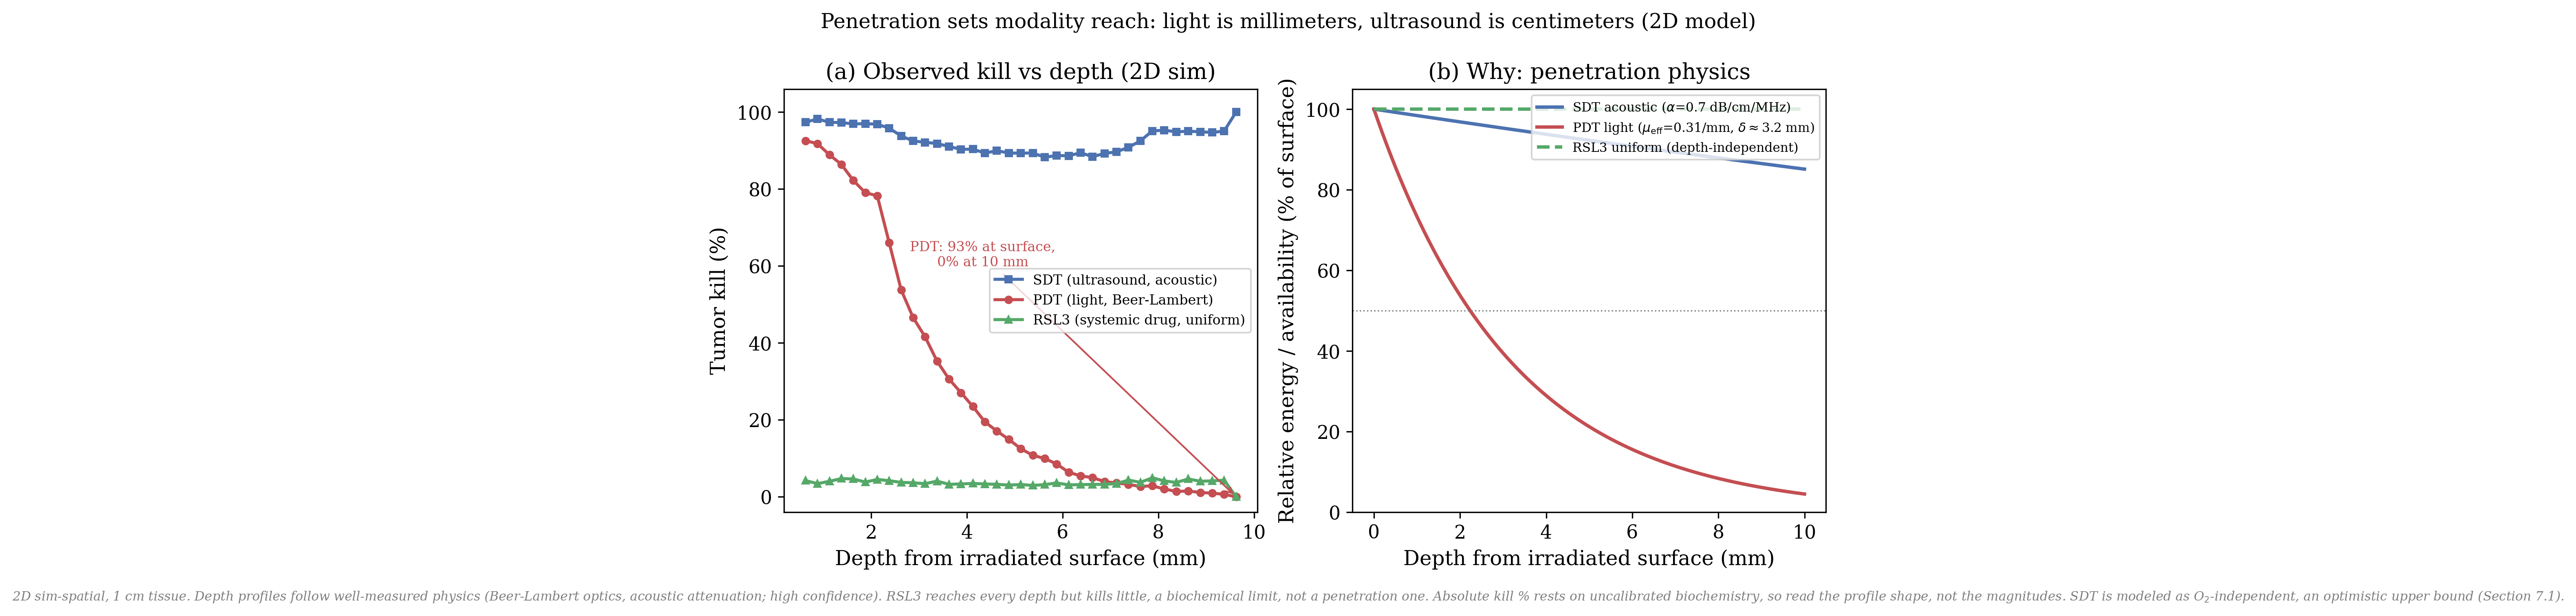
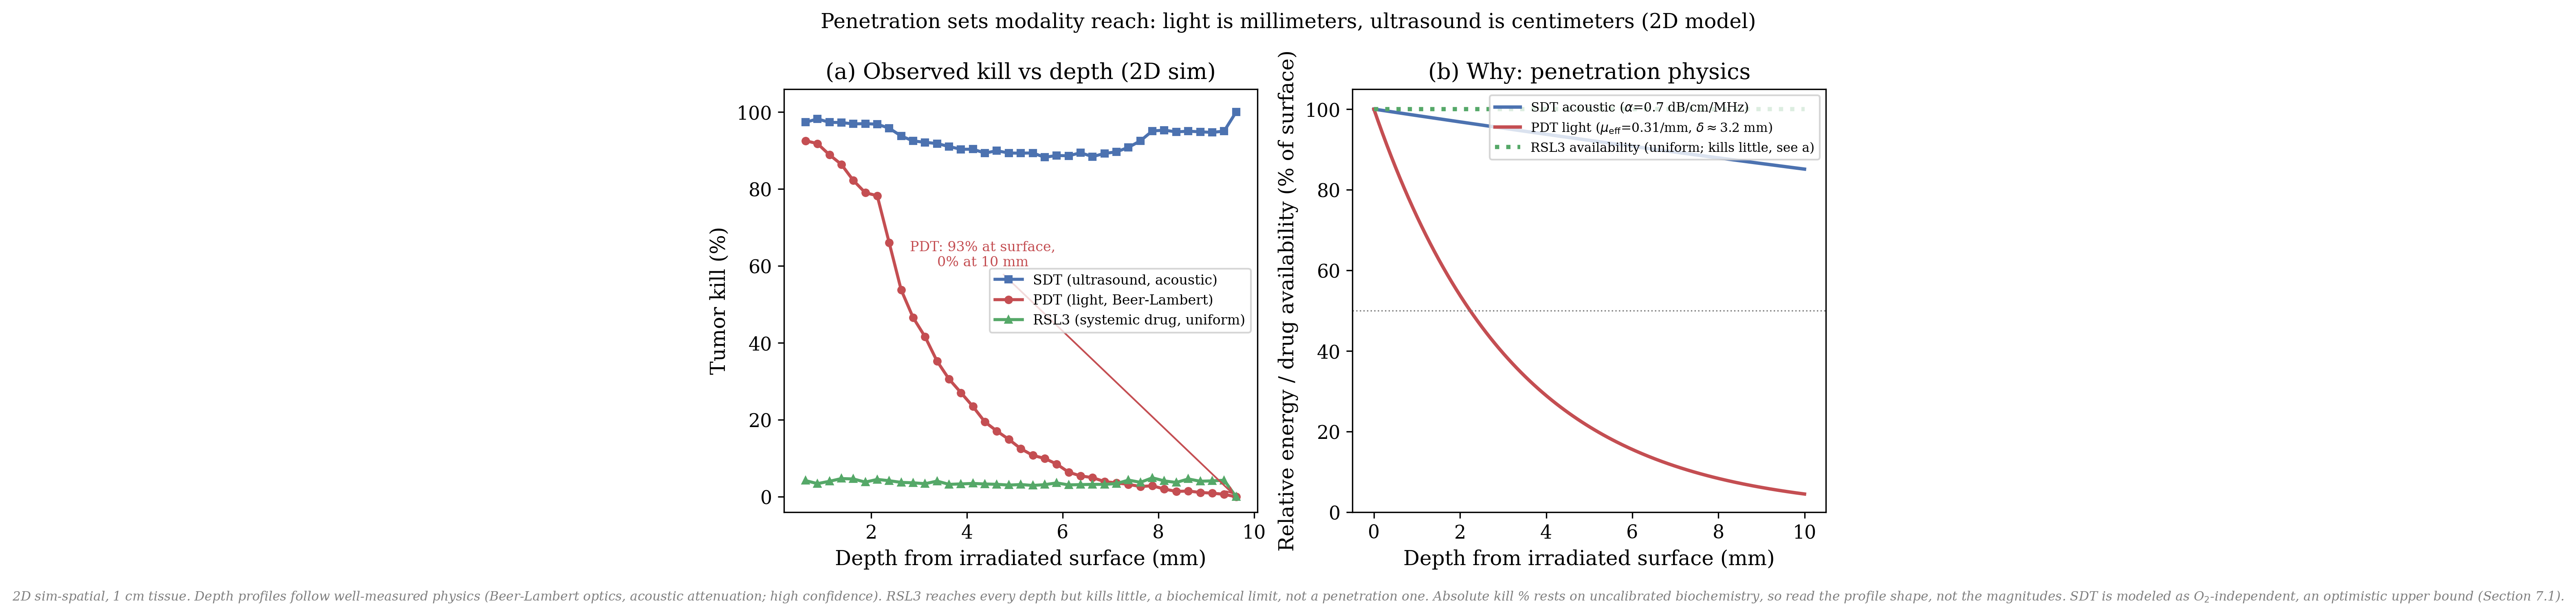
review: address #293 findings — physics-constant drift guard + figure polish
Addresses every point from the PR review:

- Drift risk (substantive): panel (b) is a Python re-implementation of the
  Rust penetration physics with hardcoded constants, and it assumes the
  default sim-spatial flags (PDT yield 1.0). Hoisted the constants into
  named vars (PDT_MU_EFF_PER_MM=0.31, SDT_ALPHA_DB_CM_MHZ=0.7,
  SDT_FREQ_MHZ=1.0), strengthened the comment to spell out the
  default-flags assumption, and added tests/test_depth_kill_physics_
  constants.py — a guard that pins each figure constant to its
  params.rs SpatialParams::default value, so retuning either side fails
  loudly with "update fig8 panel (b)".
- RSL3 panel-(b) ambiguity: the green line is ~100% in (b) but ~0% in
  (a). Made it dotted (vs the solid attenuating modalities), relabelled
  "RSL3 availability (uniform; kills little, see a)", and renamed the
  y-axis "Relative energy / drug availability" so the dual meaning is
  unambiguous.
- Unused `sx` removed (`_, sy = series["SDT"]`); final print now guarded
  against an empty curve (consistent with the annotation's `if py:`).

Test count guard: the new 3-case test takes tests/ from 96 to 99, so
bumped EXPECTED_TESTS_DIR and the documented total in README.md + CLAUDE.md
(108 -> 111).

Verified: full Python suite 99/99 green; the new guard passes (constants
match params.rs); figure regenerated; v1.tex unchanged and still compiles.

Changed region(s): [[0.5297, 0.1553, 0.7167, 0.2485]]

diff --git a/tests/test_depth_kill_physics_constants.py b/tests/test_depth_kill_physics_constants.py
@@ -1,0 +1,58 @@
+"""
+Drift guard for the depth-kill figure (manuscript Figure 8, #285).
+
+Panel (b) of `fig8_simulation_by_treatment` in scripts/generate_figures.py is a
+Python re-implementation of the Rust penetration physics, with the attenuation
+constants HARDCODED. Panel (a) of the same figure comes from the `sim-spatial`
+binary, which reads those constants from `ferroptosis-core/src/params.rs`
+(`SpatialParams::default`). If the two drift apart, the figure's two panels
+silently disagree.
+
+This test pins the figure's hardcoded constants to the Rust defaults: if anyone
+retunes `pdt_mu_eff` / `sdt_alpha` / `sdt_freq_mhz` in params.rs (or edits the
+figure's copies), it fails, signalling that BOTH must be updated together (and
+the depth_kill_curves.csv regenerated with default sim-spatial flags).
+"""
+
+import re
+from pathlib import Path
+
+import pytest
+
+REPO_ROOT = Path(__file__).resolve().parent.parent
+PARAMS_RS = REPO_ROOT / "simulations" / "ferroptosis-core" / "src" / "params.rs"
+GENERATE_FIGURES = REPO_ROOT / "scripts" / "generate_figures.py"
+
+# (params.rs field name, figure constant name) -> both must hold this value.
+COUPLED = [
+    ("pdt_mu_eff", "PDT_MU_EFF_PER_MM"),
+    ("sdt_alpha", "SDT_ALPHA_DB_CM_MHZ"),
+    ("sdt_freq_mhz", "SDT_FREQ_MHZ"),
+]
+
+
+def _rust_default(field: str) -> float:
+    text = PARAMS_RS.read_text()
+    m = re.search(rf"\b{re.escape(field)}:\s*([0-9]+\.?[0-9]*)", text)
+    assert m, f"{field} not found in {PARAMS_RS}"
+    return float(m.group(1))
+
+
+def _figure_const(name: str) -> float:
+    text = GENERATE_FIGURES.read_text()
+    m = re.search(rf"\b{re.escape(name)}\s*=\s*([0-9]+\.?[0-9]*)", text)
+    assert m, f"{name} not found in {GENERATE_FIGURES} (fig8 panel b)"
+    return float(m.group(1))
+
+
[email redacted]("rust_field,fig_const", COUPLED)
+def test_figure_physics_matches_rust_defaults(rust_field, fig_const):
+    """fig8 panel (b)'s hardcoded constant must equal the params.rs default."""
+    rust_val = _rust_default(rust_field)
+    fig_val = _figure_const(fig_const)
+    assert rust_val == fig_val, (
+        f"Depth-kill figure drift: params.rs {rust_field}={rust_val} but "
+        f"generate_figures.py {fig_const}={fig_val}. Update fig8 panel (b) to "
+        f"match params.rs (and regenerate depth_kill_curves.csv with default "
+        f"sim-spatial flags), or vice versa."
+    )

diff --git a/scripts/generate_figures.py b/scripts/generate_figures.py
@@ -1453,23 +1453,39 @@ def fig8_simulation_by_treatment():
             ha="center", arrowprops=dict(arrowstyle="->", color="#C44E52"))
 
     # Panel (b): the penetration physics that drives panel (a), computed from the
-    # model's own equations and default constants (ferroptosis-core/src/physics.rs):
+    # model's OWN equations and default constants (ferroptosis-core/src/physics.rs
+    # + params.rs SpatialParams::default):
     #   PDT  I(z) = I0 * exp(-mu_eff * z_mm),  mu_eff = 0.31 /mm  (delta ~ 3.2 mm, 630 nm)
     #   SDT  I(z) = I0 * 10^(-alpha * f * z_cm / 10),  alpha = 0.7 dB/cm/MHz, f = 1 MHz
     #   RSL3 uniform = 1.0 (systemic drug; no depth attenuation)
+    #
+    # DRIFT GUARD: these constants are hardcoded here (a Python re-implementation
+    # of the Rust physics), and this panel assumes the DEFAULT sim-spatial flags
+    # (`--dli-h 0`, `Photosensitizer::Uniform(1.0)`) so the PDT drug-yield is 1.0
+    # and panel (b) equals the sim's per-cell multiplier that produced panel (a).
+    # If params.rs retunes these defaults, or the CSV is regenerated with a
+    # non-default `--photosensitizer`/`--dli-h`, the two panels desync. The values
+    # are pinned against params.rs by tests/test_depth_kill_physics_constants.py;
+    # update BOTH if you change them, and regenerate the CSV with default flags.
+    PDT_MU_EFF_PER_MM = 0.31  # params.rs SpatialParams::default().pdt_mu_eff
+    SDT_ALPHA_DB_CM_MHZ = 0.7  # params.rs SpatialParams::default().sdt_alpha
+    SDT_FREQ_MHZ = 1.0  # params.rs SpatialParams::default().sdt_freq_mhz
     z_mm = np.linspace(0.0, 10.0, 200)
-    pdt_I = np.exp(-0.31 * z_mm)
-    sdt_I = 10.0 ** (-(0.7 * 1.0 * (z_mm / 10.0)) / 10.0)
+    pdt_I = np.exp(-PDT_MU_EFF_PER_MM * z_mm)
+    sdt_I = 10.0 ** (-(SDT_ALPHA_DB_CM_MHZ * SDT_FREQ_MHZ * (z_mm / 10.0)) / 10.0)
     rsl3_I = np.ones_like(z_mm)
     axB.plot(z_mm, sdt_I * 100, "-", color="#4C72B0", lw=2,
              label="SDT acoustic ($\\alpha$=0.7 dB/cm/MHz)")
     axB.plot(z_mm, pdt_I * 100, "-", color="#C44E52", lw=2,
              label="PDT light ($\\mu_{\\mathrm{eff}}$=0.31/mm, $\\delta{\\approx}$3.2 mm)")
-    axB.plot(z_mm, rsl3_I * 100, "--", color="#55A868", lw=2,
-             label="RSL3 uniform (depth-independent)")
+    # RSL3 dotted (not solid like the attenuating modalities) to flag that this is
+    # DRUG AVAILABILITY, not kill: it is flat at 100% here yet flat near zero in
+    # panel (a) — a biochemical, not a penetration, limit.
+    axB.plot(z_mm, rsl3_I * 100, ":", color="#55A868", lw=2.5,
+             label="RSL3 availability (uniform; kills little, see a)")
     axB.axhline(50, ls=":", color="gray", lw=0.8)
     axB.set_xlabel("Depth from irradiated surface (mm)")
-    axB.set_ylabel("Relative energy / availability (% of surface)")
+    axB.set_ylabel("Relative energy / drug availability (% of surface)")
     axB.set_ylim(0, 105)
     axB.set_title("(b) Why: penetration physics")
     axB.legend(fontsize=7.5, loc="upper right")
@@ -1487,8 +1503,12 @@ def fig8_simulation_by_treatment():
     fig.savefig(FIG_DIR / "fig8_simulation_by_treatment.pdf", bbox_inches="tight")
     fig.savefig(FIG_DIR / "fig8_simulation_by_treatment.png", bbox_inches="tight")
     plt.close()
-    sx, sy = series["SDT"]
-    print(f"  PDT {py[0]:.0f}%->{py[-1]:.0f}% over {px[-1]:.0f} mm; SDT {sy[0]:.0f}%->{sy[-1]:.0f}%; depth bins={len(px)}")
+    _, sy = series["SDT"]
+    if py and sy:
+        print(f"  PDT {py[0]:.0f}%->{py[-1]:.0f}% over {px[-1]:.0f} mm; "
+              f"SDT {sy[0]:.0f}%->{sy[-1]:.0f}%; depth bins={len(px)}")
+    else:
+        print("  (no tumor cells in one or more depth curves)")
 
 
 def main():

diff --git a/tests/test_doc_test_count.py b/tests/test_doc_test_count.py
@@ -33,7 +33,7 @@ REPO_ROOT = Path(__file__).resolve().parents[1]
 
 # Collected-test expectations. Bump these (and the doc strings) in lockstep with
 # intentional test additions/removals — that lockstep is the whole point.
-EXPECTED_TESTS_DIR = 96  # `tests/` total, including this meta-test
+EXPECTED_TESTS_DIR = 99  # `tests/` total, including this meta-test
 EXPECTED_BINDINGS = 12  # `simulations/ferroptosis-python/test_bindings.py`
 EXPECTED_TOTAL = EXPECTED_TESTS_DIR + EXPECTED_BINDINGS  # the documented "NNN Python tests"
 

diff --git a/CLAUDE.md b/CLAUDE.md
@@ -51,7 +51,7 @@ The repo exists to compare therapeutic mechanisms, evidence depth, resistant-sta
 - tissue-of-origin and weighted-evidence layers are active
 - diagnostic-therapy matching layer covers 6 chains across 4 modalities (radioligand, checkpoint, mRNA vaccine, oncolytic)
 - manuscript: ~117 pages (book format), 11 chapters + 3 appendices, 23 figures, ~36,700 words
-- simulation suite: 11 binaries (incl. sim-tumor-pk + sim-tme-3d) + ferroptosis-core library (MIT licensed, 21 modules including `photosensitizer_pk`, `oxygen`, `ph`, `stromal`, `immune_spatial`, `dose_schedule`, `persister`, `clonal`, `vasculature`, `spheroid`, and `slab`; v0.7.0 adds 3D radial-depth + 3D ROS-multiplier APIs alongside the 2D path #185–#186; v0.8.0 adds 3D radial O₂ field + zone-census #187; v0.9.0 adds 3D radial pH field + iron-release/ion-trap helpers #190; v0.10.0 adds 3D CAF-shielded boundary detection + adjacent-kill-rate #189; v0.11.0 adds 3D spatial immune coupling #188; sim-tme-3d capstone binary consumes all five #195; #220/#224 lift the TME config structs + 2D depth/pH/stromal helpers into the library and rename `immune_3d`→`immune_spatial`; v0.12.0 (#239) adds the `dose_schedule` time-varying-PK module + `biochem::exo_decay_factor`; v0.13.0 (#241) adds the `persister` drug-tolerant-persister module + `PersisterConfig`; v0.14.0 (#243) adds `immune_spatial::exhaustion_factor` (T-cell exhaustion) + `TumorGrid3D::coords` + `SpatialImmuneConfig::exhaustion_rate`; v0.15.0 (#242) adds the `clonal` module (Voronoi subclones + `ClonalConfig`/`SubclonePerturbation`); v0.16.0 (#191) adds the `vasculature` module (explicit vessel network + `VasculatureConfig`); v0.17.0 (#197) adds the `spheroid` module (radial phenotype/MUFA/GSH/iron + `SpheroidConfig`) + `Params::spheroid()`; v0.18.0 (#240) adds the `slab` module (patient-scale all-tumor block + planar depth-graded supply, `SlabConfig`, `scale_interpretation`, `KROGH_LAMBDA_UM`) + `TumorGrid3D::generate_slab`; v0.19.0 (#270) adds per-cell durable MUFA (`Cell::mufa_cap`, threaded into `update_mufa_protection`, set radially by the spheroid so position-dependent MUFA no longer relaxes to the uniform M_ss); v0.20.0 (#264 Phase 2) adds the Treg/MDSC immunosuppressor field to `immune_spatial` (`SuppressorConfig` + `suppressor_kill_multiplier` + `suppressor_source_mask_3d`); v0.21.0 (#264 Phase 3) adds the multi-checkpoint immune brake (`CheckpointPanel` + `Checkpoint`, `combined_brake` = 1 − Π(1 − brakeᵢ·(1−drug_effᵢ)) over PD-1/CTLA-4/LAG-3/TIM-3); v0.22.0 (#262) adds the persister competing-rate `step` (acquisition + reversion act simultaneously ⇒ sub-cap equilibrium under sustained sub-saturating drug); v0.23.0 (#266 item 3) adds spatial clonal expansion (`repopulate_dead_sites_3d` + `ClonalConfig::repopulation_rate`/`with_repopulation`); v0.24.0 (#272) adds slab+vasculature coupling (`vasculature::place_vessels_in_slab_3d` uniform-in-box vessel placement, so a patient-scale slab can carry internal vessels whose proximity supply combines element-wise-MAX with the planar depth gradient); v0.25.0 (#268) adds the `VesselIndex` uniform-grid spatial index for `vessel_supply_field`'s nearest-vessel lookup (exact/byte-identical to the former brute force, ~O(cells) instead of O(cells×vessels), so vasculature scales to patient-size grids — 100³/1M cells ≈ 105 ms); v0.26.0 (#268 + spheroid zone fix) adds `VesselTopology::{Random,Fractal}` + `place_vessels_fractal_3d` (a fractal-branching vessel tree — trunks enter from the periphery and bifurcate inward with high, tumor-like variability per Baish & Jain 2000 PMID [phone redacted], producing hierarchical-but-chaotic perfusion with avascular gaps, capped at the same point-count target as random (raw point count, NOT effective coverage — clustered 1-cell-spaced branch points cover far less unique volume than the same number of scattered points, so the higher hypoxic fraction is a clustering-coverage effect read qualitatively, not a density-controlled result); slab geometry ignores topology; off-by-default topology=Random keeps the matrix byte-identical) and makes `spheroid::radial_phenotype` volume-based (compares `frac.powi(3)` to volume-fraction thresholds with `literature()` defaults `glycolytic_frac:0.73`/`oxphos_frac:0.39` from Browning 2021 eLife so rim/mid/core zones reflect equal-volume shells, not equal-radius bands; spheroid layer is opt-in so byte-identical); current crate version 0.26.0; unit-test count tracked in CI / `cargo test --workspace`) + Python bindings + 108 Python tests (pipeline smoke + figure traceability + invariant/integration + calibrate-extractor + ferroptosis-python bindings)
+- simulation suite: 11 binaries (incl. sim-tumor-pk + sim-tme-3d) + ferroptosis-core library (MIT licensed, 21 modules including `photosensitizer_pk`, `oxygen`, `ph`, `stromal`, `immune_spatial`, `dose_schedule`, `persister`, `clonal`, `vasculature`, `spheroid`, and `slab`; v0.7.0 adds 3D radial-depth + 3D ROS-multiplier APIs alongside the 2D path #185–#186; v0.8.0 adds 3D radial O₂ field + zone-census #187; v0.9.0 adds 3D radial pH field + iron-release/ion-trap helpers #190; v0.10.0 adds 3D CAF-shielded boundary detection + adjacent-kill-rate #189; v0.11.0 adds 3D spatial immune coupling #188; sim-tme-3d capstone binary consumes all five #195; #220/#224 lift the TME config structs + 2D depth/pH/stromal helpers into the library and rename `immune_3d`→`immune_spatial`; v0.12.0 (#239) adds the `dose_schedule` time-varying-PK module + `biochem::exo_decay_factor`; v0.13.0 (#241) adds the `persister` drug-tolerant-persister module + `PersisterConfig`; v0.14.0 (#243) adds `immune_spatial::exhaustion_factor` (T-cell exhaustion) + `TumorGrid3D::coords` + `SpatialImmuneConfig::exhaustion_rate`; v0.15.0 (#242) adds the `clonal` module (Voronoi subclones + `ClonalConfig`/`SubclonePerturbation`); v0.16.0 (#191) adds the `vasculature` module (explicit vessel network + `VasculatureConfig`); v0.17.0 (#197) adds the `spheroid` module (radial phenotype/MUFA/GSH/iron + `SpheroidConfig`) + `Params::spheroid()`; v0.18.0 (#240) adds the `slab` module (patient-scale all-tumor block + planar depth-graded supply, `SlabConfig`, `scale_interpretation`, `KROGH_LAMBDA_UM`) + `TumorGrid3D::generate_slab`; v0.19.0 (#270) adds per-cell durable MUFA (`Cell::mufa_cap`, threaded into `update_mufa_protection`, set radially by the spheroid so position-dependent MUFA no longer relaxes to the uniform M_ss); v0.20.0 (#264 Phase 2) adds the Treg/MDSC immunosuppressor field to `immune_spatial` (`SuppressorConfig` + `suppressor_kill_multiplier` + `suppressor_source_mask_3d`); v0.21.0 (#264 Phase 3) adds the multi-checkpoint immune brake (`CheckpointPanel` + `Checkpoint`, `combined_brake` = 1 − Π(1 − brakeᵢ·(1−drug_effᵢ)) over PD-1/CTLA-4/LAG-3/TIM-3); v0.22.0 (#262) adds the persister competing-rate `step` (acquisition + reversion act simultaneously ⇒ sub-cap equilibrium under sustained sub-saturating drug); v0.23.0 (#266 item 3) adds spatial clonal expansion (`repopulate_dead_sites_3d` + `ClonalConfig::repopulation_rate`/`with_repopulation`); v0.24.0 (#272) adds slab+vasculature coupling (`vasculature::place_vessels_in_slab_3d` uniform-in-box vessel placement, so a patient-scale slab can carry internal vessels whose proximity supply combines element-wise-MAX with the planar depth gradient); v0.25.0 (#268) adds the `VesselIndex` uniform-grid spatial index for `vessel_supply_field`'s nearest-vessel lookup (exact/byte-identical to the former brute force, ~O(cells) instead of O(cells×vessels), so vasculature scales to patient-size grids — 100³/1M cells ≈ 105 ms); v0.26.0 (#268 + spheroid zone fix) adds `VesselTopology::{Random,Fractal}` + `place_vessels_fractal_3d` (a fractal-branching vessel tree — trunks enter from the periphery and bifurcate inward with high, tumor-like variability per Baish & Jain 2000 PMID [phone redacted], producing hierarchical-but-chaotic perfusion with avascular gaps, capped at the same point-count target as random (raw point count, NOT effective coverage — clustered 1-cell-spaced branch points cover far less unique volume than the same number of scattered points, so the higher hypoxic fraction is a clustering-coverage effect read qualitatively, not a density-controlled result); slab geometry ignores topology; off-by-default topology=Random keeps the matrix byte-identical) and makes `spheroid::radial_phenotype` volume-based (compares `frac.powi(3)` to volume-fraction thresholds with `literature()` defaults `glycolytic_frac:0.73`/`oxphos_frac:0.39` from Browning 2021 eLife so rim/mid/core zones reflect equal-volume shells, not equal-radius bands; spheroid layer is opt-in so byte-identical); current crate version 0.26.0; unit-test count tracked in CI / `cargo test --workspace`) + Python bindings + 111 Python tests (pipeline smoke + figure traceability + depth-kill physics-constant guard + invariant/integration + calibrate-extractor + ferroptosis-python bindings)
 - news authentication pipeline: 5 scripts (fetch, extract claims, verify against PubMed, score credibility, build claim-centric index) implementing the 3-tier source framework from analysis/news-source-criteria.md
 - simulation calibration: 8 targets documented (5 original + 3 new 3D self-consistency targets from #196 covering hypoxia-RSL3 collapse, immune SDT/RSL3 ratio, stromal boundary shielding); evaluate script operational; 3D validation infrastructure in place (`3d_validation_report.md` + upgrade-to-calibration path); `simulations/calibration/CALIBRATION_STATUS.md` is the single honest per-layer accounting (calibrated / partially anchored / self-consistency / uncalibrated) + calibration roadmap, consolidating the previously-scattered caveats — the suite is broad but mostly uncalibrated (mechanistic scaffolding, excluded from the manuscript's quantitative claims)
 - manuscript honesty pass (integrity audit): the 3D suite was absent from the manuscript + several §8.4 "the model cannot do X" caveats had gone stale (clonal/persister DO model adaptive evolution; suppressor/checkpoints DO model immune dampening; vasculature DOES replace the edge-O2 proxy — all uncalibrated); fixed by a consolidated §8.4 "3D simulation suite" honesty paragraph (names the suite, its uncalibrated status, the deliberate exclusion from quantitative claims, and the 104:1→4:1 immune-ratio shrinkage in 3D) + drift fixes (version 0.2.0→0.25.0, "ten modules"→21, missing sim-tme-3d/sim-tumor-pk binaries); `v1.md` edited then `v1.tex` regenerated (compiles, ~115 pp)

diff --git a/README.md b/README.md
@@ -52,7 +52,7 @@ These are computational predictions with documented assumptions and caveats, not
 | `corpus/` | Full-text articles by PubMed ID + INDEX.jsonl |
 | `tags/` | Precomputed tag indexes (mechanism, cancer type, tissue, evidence level, diagnostic-therapy) |
 | `news/` | News source scaffolding: fetched articles, extracted claims, verification results, credibility scores |
-| `tests/` | 108 Python tests (pipeline smoke + figure traceability + manuscript-inventory drift guard + invariant/integration + calibrate-extractor + ferroptosis-python bindings) |
+| `tests/` | 111 Python tests (pipeline smoke + figure traceability + manuscript-inventory drift guard + depth-kill physics-constant guard + invariant/integration + calibrate-extractor + ferroptosis-python bindings) |
 
 Start with the files in `analysis/` if you want to see what we've concluded so far—and where we're still uncertain.
 